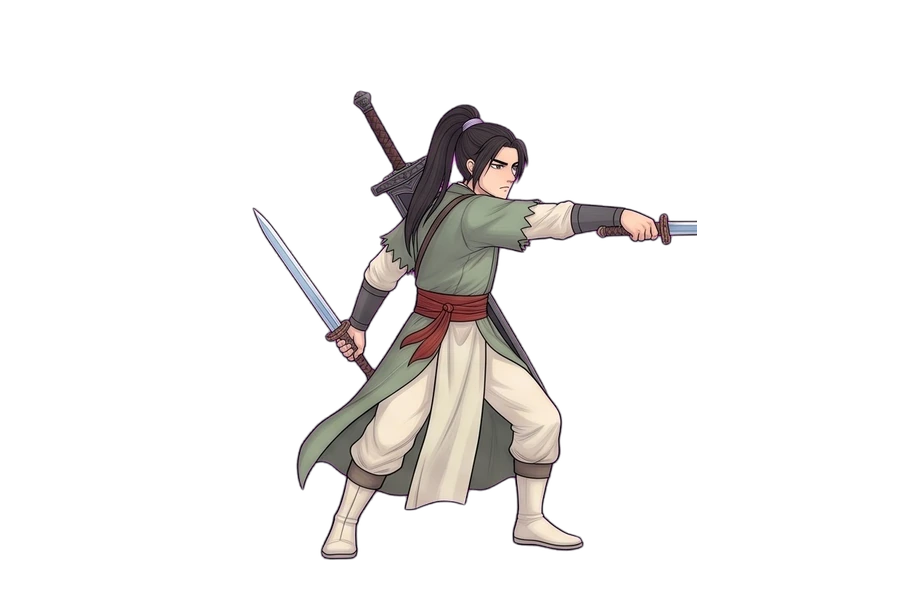
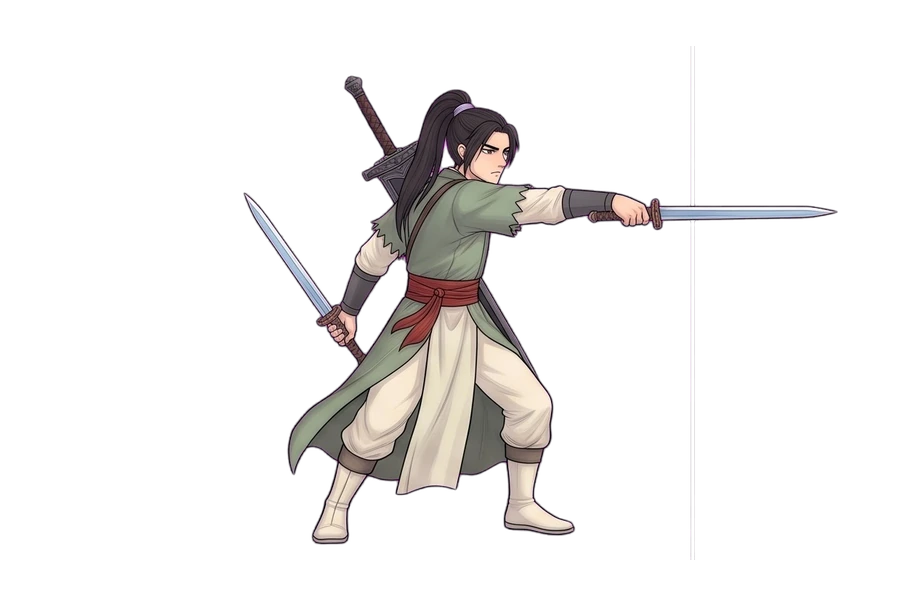
v0.8.217 寒川影殺：重切被截斷的劍、背刺預警改剪影＋生圖煙霧
Claude-Session: https://claude.ai/code/session_019t36Gn71D93ZMcdfEszgiF

Changed region(s): [[0.2489, 0.12, 0.9333, 0.93]]

diff --git a/index.html b/index.html
@@ -2025,7 +2025,7 @@
       "use strict";
 
       /* v0.7.8 圖片快取：assets/ 圖片網址一律加 ?v=版本，更新美術後不會讀到手機瀏覽器的舊快取（每次改圖就遞增 ASSET_VER） */
-      const ASSET_VER = "c05f6c61"; /* v0.8.135 由 tools/build.py 依 assets/ 內容雜湊自動填入：只有圖片／音檔真的變了網址才換（原本每發一版全部換網址，手機要重載約 10 MB）。不必再手動遞增 */
+      const ASSET_VER = "01f99adc"; /* v0.8.135 由 tools/build.py 依 assets/ 內容雜湊自動填入：只有圖片／音檔真的變了網址才換（原本每發一版全部換網址，手機要重載約 10 MB）。不必再手動遞增 */
       /* v0.8.156 共用圖片載入器 IMGQ：所有 assets/ 圖片（不論哪裡 new Image）都經過這裡。
        * - 先用隱藏的代理圖下載，成功才把網址交給真正的圖（此時從快取秒載、觸發原本的 onload）；
        *   下載中的圖沒有 src，畫出來不會丟錯（失敗狀態的圖 drawImage 會丟錯）。
@@ -9435,7 +9435,7 @@ const Config = {
           ev.push([t + 0.22, () => { /* 化影：背後出現影子 0.65 秒後背刺 */
             U.follow = 0; shd(0, Boss.x, Boss.y - 20, 560 * kS * 0.95, { anchor: "b" }); gVanish(true); const side = -Player.facing;
             spawnFloatingText(Player.x, Player.y - 150, "背後！", "#fde047", 0.9); Sound.play("b2_vanish", 0.8, 1.2);
-            guStrike({ x: Player.x, track: true, lock: 0.2, w: 200, delay: 0.65, kind: "parry", needFace: true, side, srcOff: 120, shape: "cross", dmg: 88, post: 5, label: "【背刺】", onParry: ok,
+            guStrike({ x: Player.x, track: true, lock: 0.2, w: 200, delay: 0.65, kind: "parry", needFace: true, ghost: true, side, srcOff: 120, shape: "cross", dmg: 88, post: 5, label: "【背刺】", onParry: ok,
               onFire: (h) => { Boss.x = gClampX(h.x + h.side * 120); gVanish(false); Boss.facing = -h.side; fr("us6_back"); shd(1, Boss.x, Boss.y - 20, 560 * kS * 0.95, { anchor: "b", dur: 0.35 }); Sound.play("b3_dash", 0.9, 1.0); } });
           }]);
           t += 0.22 + 0.65;
@@ -9699,7 +9699,11 @@ const Config = {
                 ctx.strokeStyle = `rgba(${col}, 0.9)`; ctx.lineWidth = 3; ctx.beginPath(); ctx.ellipse(h.x, G + 2, hw, 16, 0, 0, Math.PI * 2); ctx.stroke();
                 ctx.fillStyle = `rgba(${col}, ${0.15 + 0.3 * pr})`; ctx.beginPath(); ctx.ellipse(h.x, G + 2, hw * pr, 16 * pr, 0, 0, Math.PI * 2); ctx.fill();
                 if (h.shape === "pillar") { ctx.fillStyle = `rgba(${col}, ${0.05 + 0.09 * pr})`; ctx.fillRect(h.x - hw * 0.8, top, h.w * 0.8, G - top); }
-                if (h.shape === "cross" && h.side) { /* 來襲方向的影子＋箭頭 */
+                if (h.shape === "cross" && h.side && h.ghost) { /* v0.8.217 背刺預警：他化影前蹲的剪影（淡紫）＋生圖現身煙霧，取代程式畫的梯形影子 */
+                  const SPg = getBossSprite("boss3"), ig = SPg && SPg.imgs["us5_crouch"], sil = ig && ig.complete && ig.naturalWidth ? silImg(ig, "#6d28d9") : null, gx = h.x + h.side * (h.srcOff || 260), kg = bossVis(Stages[Boss.stageId]).k;
+                  if (sil) { ctx.save(); ctx.globalAlpha = 0.2 + 0.55 * pr; ctx.translate(gx, G + GROUND_SINK); ctx.scale(-h.side * kg, kg); ctx.drawImage(sil, -450, -560); ctx.restore(); }
+                  if (fxReady("boss3shadow")) { const z = 360; ctx.save(); ctx.globalCompositeOperation = "lighter"; ctx.globalAlpha = 0.85; ctx.drawImage(fxSheet("boss3shadow").img, Math.min(3, Math.floor(pr * 4)) * 256, 256, 256, 256, gx - z / 2, G - z * 0.85, z, z); ctx.restore(); }
+                } else if (h.shape === "cross" && h.side) { /* 來襲方向的影子＋箭頭 */
                   const sx = h.x + h.side * 260; ctx.globalAlpha = 0.35 + 0.5 * pr; ctx.fillStyle = "#312e81"; ctx.strokeStyle = `rgba(${col}, 0.9)`;
                   ctx.beginPath(); ctx.moveTo(sx - 26, G); ctx.lineTo(sx + 26, G); ctx.lineTo(sx + 12, G - 150); ctx.lineTo(sx - 12, G - 150); ctx.closePath(); ctx.fill(); ctx.stroke();
                   ctx.beginPath(); ctx.moveTo(sx - h.side * 40, G - 90); ctx.lineTo(sx - h.side * (40 + 150 * pr), G - 90); ctx.stroke();

diff --git a/src/57_gult.js b/src/57_gult.js
@@ -116,7 +116,7 @@
           ev.push([t + 0.22, () => { /* 化影：背後出現影子 0.65 秒後背刺 */
             U.follow = 0; shd(0, Boss.x, Boss.y - 20, 560 * kS * 0.95, { anchor: "b" }); gVanish(true); const side = -Player.facing;
             spawnFloatingText(Player.x, Player.y - 150, "背後！", "#fde047", 0.9); Sound.play("b2_vanish", 0.8, 1.2);
-            guStrike({ x: Player.x, track: true, lock: 0.2, w: 200, delay: 0.65, kind: "parry", needFace: true, side, srcOff: 120, shape: "cross", dmg: 88, post: 5, label: "【背刺】", onParry: ok,
+            guStrike({ x: Player.x, track: true, lock: 0.2, w: 200, delay: 0.65, kind: "parry", needFace: true, ghost: true, side, srcOff: 120, shape: "cross", dmg: 88, post: 5, label: "【背刺】", onParry: ok,
               onFire: (h) => { Boss.x = gClampX(h.x + h.side * 120); gVanish(false); Boss.facing = -h.side; fr("us6_back"); shd(1, Boss.x, Boss.y - 20, 560 * kS * 0.95, { anchor: "b", dur: 0.35 }); Sound.play("b3_dash", 0.9, 1.0); } });
           }]);
           t += 0.22 + 0.65;
@@ -380,7 +380,11 @@
                 ctx.strokeStyle = `rgba(${col}, 0.9)`; ctx.lineWidth = 3; ctx.beginPath(); ctx.ellipse(h.x, G + 2, hw, 16, 0, 0, Math.PI * 2); ctx.stroke();
                 ctx.fillStyle = `rgba(${col}, ${0.15 + 0.3 * pr})`; ctx.beginPath(); ctx.ellipse(h.x, G + 2, hw * pr, 16 * pr, 0, 0, Math.PI * 2); ctx.fill();
                 if (h.shape === "pillar") { ctx.fillStyle = `rgba(${col}, ${0.05 + 0.09 * pr})`; ctx.fillRect(h.x - hw * 0.8, top, h.w * 0.8, G - top); }
-                if (h.shape === "cross" && h.side) { /* 來襲方向的影子＋箭頭 */
+                if (h.shape === "cross" && h.side && h.ghost) { /* v0.8.217 背刺預警：他化影前蹲的剪影（淡紫）＋生圖現身煙霧，取代程式畫的梯形影子 */
+                  const SPg = getBossSprite("boss3"), ig = SPg && SPg.imgs["us5_crouch"], sil = ig && ig.complete && ig.naturalWidth ? silImg(ig, "#6d28d9") : null, gx = h.x + h.side * (h.srcOff || 260), kg = bossVis(Stages[Boss.stageId]).k;
+                  if (sil) { ctx.save(); ctx.globalAlpha = 0.2 + 0.55 * pr; ctx.translate(gx, G + GROUND_SINK); ctx.scale(-h.side * kg, kg); ctx.drawImage(sil, -450, -560); ctx.restore(); }
+                  if (fxReady("boss3shadow")) { const z = 360; ctx.save(); ctx.globalCompositeOperation = "lighter"; ctx.globalAlpha = 0.85; ctx.drawImage(fxSheet("boss3shadow").img, Math.min(3, Math.floor(pr * 4)) * 256, 256, 256, 256, gx - z / 2, G - z * 0.85, z, z); ctx.restore(); }
+                } else if (h.shape === "cross" && h.side) { /* 來襲方向的影子＋箭頭 */
                   const sx = h.x + h.side * 260; ctx.globalAlpha = 0.35 + 0.5 * pr; ctx.fillStyle = "#312e81"; ctx.strokeStyle = `rgba(${col}, 0.9)`;
                   ctx.beginPath(); ctx.moveTo(sx - 26, G); ctx.lineTo(sx + 26, G); ctx.lineTo(sx + 12, G - 150); ctx.lineTo(sx - 12, G - 150); ctx.closePath(); ctx.fill(); ctx.stroke();
                   ctx.beginPath(); ctx.moveTo(sx - h.side * 40, G - 90); ctx.lineTo(sx - h.side * (40 + 150 * pr), G - 90); ctx.stroke();

diff --git a/docs/CHANGELOG.md b/docs/CHANGELOG.md
@@ -5,6 +5,8 @@
 
 ## 最新版本
 
+**v0.8.217 寒川影殺修正（使用者截圖回報）**：①「劍斷掉」：關鍵格第 1、6 格的劍伸進隔壁格，固定格切把劍尖切掉 → 這兩格改加寬範圍（`[0,0,990,720]`、`[728,720,1740,1440]`）重切、固定縮放 0.7264；先把原圖白色格線在「左右 12px 都是洋紅」處塗回洋紅（不切到穿過格線的劍），再刪掉輸出圖裡殘留的細長直線。教訓：**劍伸出格子時要先看每格內容邊界，不要直接用等分格**。②背刺預警原本是程式畫的紫色梯形＋黃箭頭（`drawGultWorld` 的 cross 影子）→ `guStrike` 新增 `ghost`：畫他化影前蹲 `us5_crouch` 的淡紫剪影（`silImg`，透明度隨倒數 0.2→0.75）＋ `boss3shadow` 第 2 列現身煙霧。
+
 **v0.8.216 第 3 關兩招大招接生圖美術**（提示詞 `prompts/3/11～15`）
 - **寒川影殺**：`tools/cut_keys.py`（4×2、每格 728×720、以第 1 格高 470 統一縮放）→ `assets/boss3/us1_strike1～us4_strike4`（四連斬各一格）、`us5_crouch`（化影前蹲）、`us6_back`（背刺）、`us7_dive`（空中落刺）、`us8_land`（落地）。特效 `assets/fx/boss3shadow.webp`（`fx_black.py`；第 2 列第 1 格有灰底方塊，另扣 20 去掉）：列 0 化影（兩次消失時）、列 1 現身（背刺、空中現身）、列 2 落刺光痕（斜向，帶 facing）、列 3 落地爆光。
 - **鎮岳劍獄**：`cut_keys.py`（以第 2 格高 492）→ `assets/boss3b/uc1_plant`、`uc2_holdA`／`uc3_holdB`（扶劍，0.45 秒交替）、`uc4_lean`（閃藍／大亮時拄劍喘息）、`uc5_flinch`（龜裂時退縮 0.5 秒）、`uc6_blown`（破獄震飛）→ 0.45 秒後 `uc7_kneel`（喘息）、`uc8_command`（每輪推牆、合攏時號令）。**插地的劍就是他自己的重劍**：插劍各格以劍底對齊到格內 x=600（錨點右 150），Boss.x＝劍位 − facing×150×k，程式畫的插地劍拿掉；劍柄光位置＝格內 y≈185。劍牆 `assets/boss3b/wall_1～8`（洋紅底 4×2 切格、擦掉每格底的地平線、縮半成 356×352、腳底 y≈334；1～4 依升起進度、5～8 依崩碎進度，畫成 1.45 倍、右牆鏡像）。特效 `assets/fx/boss3cage.webp`：列 0 劍柄閃藍（170px）、列 1 藍光大亮（300px 脈動＋程式收縮圈表剩餘時間）、列 2 高劍氣、列 3 矮劍氣（`guWave` 新增 `art:[sheet,row]`，`drawGultWorld` 有 art 就畫生圖，往左跑鏡像）。龜裂紋仍是程式細線。首次提示縮短。

diff --git a/HANDOFF.md b/HANDOFF.md
@@ -1,11 +1,11 @@
-# 《一念飛仙外傳-墨塵傳》交接文件（對應版本 v0.8.216）
+# 《一念飛仙外傳-墨塵傳》交接文件（對應版本 v0.8.217）
 
 > 新對話開始時：掛載 `mashin-84/mochen`（push 權限）並 clone → 讀 `CLAUDE.md` → 讀本檔第〇節（現況總覽）→ 依待辦繼續。做新關卡再讀 `STAGE_PIPELINE.md`。
 > **v0.8.210 起文件拆分**：本檔只放現況與路線圖；版本紀錄在 `docs/CHANGELOG.md`（**新的寫在最上面**）；九關設計卡在 `docs/DESIGN.md`；給 Gemini 的舊交接在 `docs/AI_HANDOFF.md`（v0.8.37，已過時）。有疑問以程式碼與本檔第〇節為準。
 
 ---
 
-## 〇、現況總覽（2026-11-18，v0.8.216；新對話先讀這節）
+## 〇、現況總覽（2026-11-18，v0.8.217；新對話先讀這節）
 
 ### 目前進度
 - **里程碑**：M0 地基 ✅、M1 聲音 ✅、M2 第 1 關 ✅、M3 第 4 關 ✅、第 5 關內容已做完（等實測）。**目前主線＝「招牌大招重做」**：每關 1 招演出型招牌大招（第 3 關雙姿態各 1 招），一關一關做；第 1、2、3 關已實作，**全部等使用者手機實測**。之後：第 4、5 關招牌大招（第 5 關＝魔焰獸玉已有，可能只補強）→ 各關危招補關鍵格與特效圖 → 第 6 關 → 7 → 8 → 9 → M8 劇情重寫 → M9 Beta。
